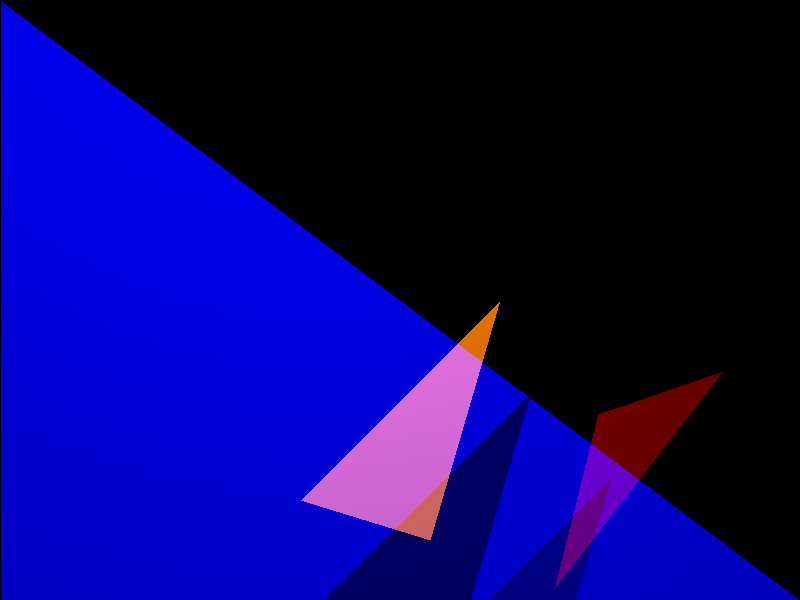
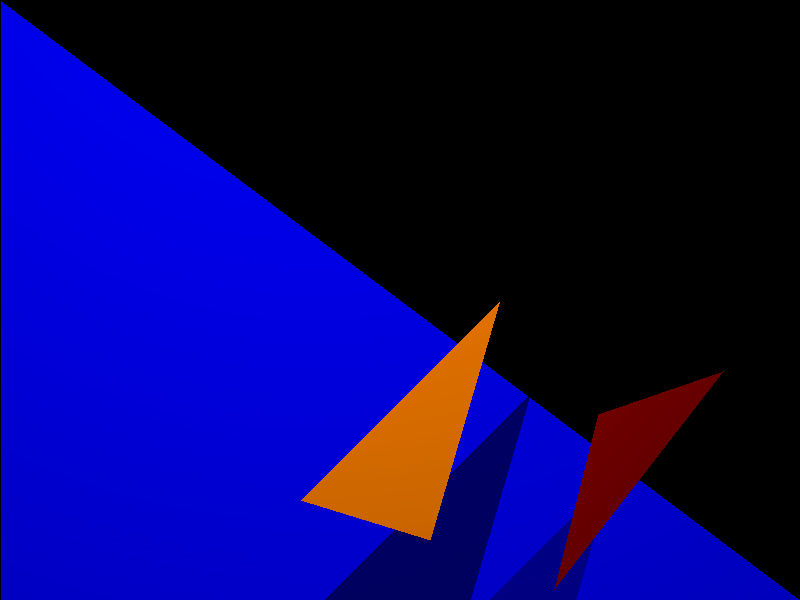
refactoring

Changed region(s): [[0.375, 0.57, 0.625, 0.9], [0.6875, 0.75, 0.8125, 0.99]]

diff --git a/Planes/Program.cs b/Planes/Program.cs
@@ -13,7 +13,7 @@ internal static class Program
     private const int Depth = 600;
     private const string FilePath = ImageHandler.ImageFolderPath + "planes.png";
 
-    private static readonly List<Plane> Planes =
+    private static readonly List<Triangle> Planes =
     [
         new(new Vector3D(0, 600, 600), new Vector3D(800, 600, 600), new Vector3D(0, 0, 600), RgbColor.Blue),
 
@@ -52,11 +52,11 @@ internal static class Program
 
                 foreach (var plane in Planes)
                 {
-                    var currentLambda = plane.NextIntersection(ray);
-                    if (currentLambda < nearestLambda)
+                    var (hasHit, currentLambda) = plane.NextIntersection(ray);
+                    if (hasHit && currentLambda < nearestLambda)
                     {
                         nearestLambda = currentLambda;
-                        color = ColorPlane(ray, plane);
+                        color = ColorPlane(ray, plane, currentLambda);
                     }
                 }
 
@@ -70,21 +70,21 @@ internal static class Program
         image.SaveAsPng(FilePath);
     }
 
-    private static RgbColor ColorPlane(Ray ray, Plane plane)
+    private static RgbColor ColorPlane(Ray ray, Triangle triangle, double lambda)
     {
-        var intersectionPoint = plane.IntersectionPoint(ray);
+        var intersectionPoint = CalcHelper.IntersectionPoint(ray, lambda);
         var vectorToLightSource = (LightSource.Position - intersectionPoint).Normalize();
         var scalarProductOfNormalizedPLaneToLightSource =
-            Math.Max(0, plane.NormalVector.ScalarProduct(vectorToLightSource));
+            Math.Max(0, triangle.NormalVector.ScalarProduct(vectorToLightSource));
 
-        return plane.Color * LightSource.Color *
+        return triangle.Color * LightSource.Color *
                scalarProductOfNormalizedPLaneToLightSource * LightSource.Intensity
                + new RgbColor(0.1, 0.1, 0.1);
     }
 
     private static RgbColor ColorSphere(Ray ray)
     {
-        var intersectionDistance = Sphere.IntersectionDistance(ray.Origin, ray.Direction);
+        var (hasHit, intersectionDistance) = Sphere.NextIntersection(ray);
 
         var hittingPoint = ray.Origin + ray.Direction * intersectionDistance;
         var n = (hittingPoint - Sphere.Center).Normalize();
@@ -92,7 +92,7 @@ internal static class Program
 
         var colorFactor = s.ScalarProduct(n) > 0 ? s.ScalarProduct(n) : 0;
 
-        if (intersectionDistance < double.MaxValue)
+        if (hasHit && intersectionDistance < double.MaxValue)
             return new RgbColor(Sphere.Color.R, Sphere.Color.G, Sphere.Color.B) * colorFactor +
                    new RgbColor(0.1, 0.1, 0.1);
 

diff --git a/Cube/Program.cs b/Cube/Program.cs
@@ -13,7 +13,7 @@ internal static class Program
     private const int Depth = 600;
     private const string FilePath = ImageHandler.ImageFolderPath + "cube.png";
 
-    private static readonly List<Plane> Planes =
+    private static readonly List<Triangle> Planes =
     [
         new(new Vector3D(0, 600, 600), new Vector3D(800, 600, 600), new Vector3D(0, 0, 600), RgbColor.Blue)
     ];
@@ -79,21 +79,21 @@ internal static class Program
         image.SaveAsPng(FilePath);
     }
 
-    private static RgbColor ColorPlane(Ray ray, Plane plane)
+    private static RgbColor ColorPlane(Ray ray, Triangle triangle)
     {
-        var intersectionPoint = plane.IntersectionPoint(ray);
+        var intersectionPoint = triangle.IntersectionPoint(ray);
         var vectorToLightSource = (LightSource.Position - intersectionPoint).Normalize();
         var scalarProductOfNormalizedPLaneToLightSource =
-            Math.Max(0, plane.NormalVector.ScalarProduct(vectorToLightSource));
+            Math.Max(0, triangle.NormalVector.ScalarProduct(vectorToLightSource));
 
-        return plane.Color * LightSource.Color *
+        return triangle.Color * LightSource.Color *
                scalarProductOfNormalizedPLaneToLightSource * LightSource.Intensity
                + new RgbColor(0.1, 0.1, 0.1);
     }
 
     private static RgbColor ColorSphere(Ray ray)
     {
-        var intersectionDistance = Sphere.IntersectionDistance(ray.Origin, ray.Direction);
+        var intersectionDistance = Sphere.NextIntersection(ray.Origin, ray.Direction);
 
         var hittingPoint = ray.Origin + ray.Direction * intersectionDistance;
         var n = (hittingPoint - Sphere.Center).Normalize();

diff --git a/Shadows/Program.cs b/Shadows/Program.cs
@@ -3,7 +3,6 @@ using Commons._3D;
 using Commons.Lighting;
 using SixLabors.ImageSharp;
 using SixLabors.ImageSharp.PixelFormats;
-using Plane = Commons._3D.Plane;
 
 namespace Shadows;
 
@@ -14,7 +13,7 @@ internal static class Program
     private const int Depth = 600;
     private const string FilePath = ImageHandler.ImageFolderPath + "shadows.png";
 
-    private static readonly List<Plane> Planes =
+    private static readonly List<Triangle> Planes =
     [
         new(new Vector3D(0, 600, 600), new Vector3D(800, 600, 600), new Vector3D(0, 0, 600), RgbColor.Blue),
 
@@ -61,6 +60,7 @@ internal static class Program
                     var currentLambda = plane.NextIntersection(rayIntoScreen);
                     if (currentLambda < nearestLambda)
                     {
+                        color = RgbColor.Black;
                         nearestLambda = currentLambda;
                         var intersectionPoint = rayIntoScreen.Origin + rayIntoScreen.Direction * currentLambda;
 
@@ -68,7 +68,6 @@ internal static class Program
                         {
                             var intersectionPointIsInShadow = false;
                             var vectorToLightSource = (lightSource.Position - intersectionPoint).Normalize();
-
                             var rayToLightSource = new Ray(intersectionPoint + vectorToLightSource * MathConstants.Epsilon, vectorToLightSource);
 
                             intersectionPointIsInShadow = CheckRayIntersectionWithOtherObjects(rayToLightSource, intersectionPoint, lightSource);

diff --git a/Commons/3D/Sphere.cs b/Commons/3D/Sphere.cs
@@ -1,15 +1,15 @@
 namespace Commons._3D;
 
-public class Sphere(Vector3D center, int radius, RgbColor color)
+public class Sphere(Vector3D center, int radius, RgbColor color) : IObject3D
 {
     public Vector3D Center => center;
     public int Radius => radius;
     public RgbColor Color => color;
 
-    public double IntersectionDistance(Vector3D position, Vector3D ray)
+    public (bool hasHit, double intersectionDistance) NextIntersection(Ray ray)
     {
-        var u = ray;
-        var v = position - Center;
+        var u = ray.Direction;
+        var v = ray.Origin - Center;
 
         var a = u.ScalarProduct(u);
         var b = 2 * u.ScalarProduct(v);
@@ -18,11 +18,11 @@ public class Sphere(Vector3D center, int radius, RgbColor color)
         // Formula = b^2 - 4ac
         var discriminant = Math.Pow(b, 2) - 4 * a * c;
 
-        if (discriminant < 0) return double.MaxValue;
+        if (discriminant < 0) return (false, double.MaxValue);
 
         var x1 = (-b + Math.Sqrt(discriminant)) / (2 * a);
         var x2 = (-b - Math.Sqrt(discriminant)) / (2 * a);
 
-        return x1 < x2 ? x1 : x2;
+        return (true, x1 < x2 ? x1 : x2);
     }
 }

diff --git a/Commons/3D/Cube.cs b/Commons/3D/Cube.cs
@@ -2,7 +2,7 @@
 
 public class Cube
 {
-    private readonly List<Plane> cubeFaces;
+    private readonly List<Triangle> cubeFaces;
 
     public Cube(Vector3D center, double size, RgbColor color, double rotation = 0)
     {
@@ -26,8 +26,8 @@ public class Cube
         var normalizedVector = new Vector3D(0, 0, 0);
         foreach (var plane in cubeFaces)
         {
-            var lambda = plane.NextIntersection(ray);
-            if (lambda < double.MaxValue && lambda > minLambda)
+            var (hasHitPlane, lambda) = plane.NextIntersection(ray);
+            if (hasHitPlane && lambda > minLambda)
             {
                 hasHit = true;
                 minLambda = lambda;
@@ -38,12 +38,12 @@ public class Cube
         return (hasHit, minLambda, normalizedVector);
     }
 
-    private List<Plane> CreateCube()
+    private List<Triangle> CreateCube()
     {
         var edges = CreateEdges();
         for (var i = 0; i < edges.Count; i++) edges[i] = Rotate(edges[i]);
 
-        var cube = new List<Plane>
+        var cube = new List<Triangle>
         {
             // Front
             new(edges[0], edges[1], edges[2], Color),

diff --git a/Commons/3D/Triangle.cs b/Commons/3D/Triangle.cs
@@ -1,8 +1,8 @@
 namespace Commons._3D;
 
-public class Plane
+public class Triangle : IObject3D
 {
-    public Plane(Vector3D a, Vector3D b, Vector3D c, RgbColor color)
+    public Triangle(Vector3D a, Vector3D b, Vector3D c, RgbColor color)
     {
         A = a;
         B = b;
@@ -23,7 +23,7 @@ public class Plane
     public RgbColor Color { get; }
 
 
-    public double NextIntersection(Ray ray)
+    public (bool hasHit, double intersectionDistance) NextIntersection(Ray ray)
     {
         var lambda = Lambda(ray);
         if (lambda > 0)
@@ -42,16 +42,10 @@ public class Plane
             var v2 = cq.CrossProduct(cb);
             var v3 = aq.CrossProduct(ac);
 
-            if (CheckEqualPrefix(v1.Z, v2.Z, v3.Z)) return lambda;
+            if (CheckEqualPrefix(v1.Z, v2.Z, v3.Z)) return (true, lambda);
         }
 
-        return double.MaxValue;
-    }
-
-    public Vector3D IntersectionPoint(Ray ray)
-    {
-        var lambda = Lambda(ray);
-        return ray.Origin + ray.Direction * lambda;
+        return (false, double.MaxValue);
     }
 
     private double Lambda(Ray ray)

diff --git a/SphereCutter/Program.cs b/SphereCutter/Program.cs
@@ -63,7 +63,7 @@ internal static class Program
                 var ray = new Vector3D(0, 0, 1);
                 foreach (var sphere in Spheres.OrderByDescending(s => s.Center.Z))
                 {
-                    var intersectionDistance = sphere.IntersectionDistance(currentPos, ray);
+                    var intersectionDistance = sphere.NextIntersection(currentPos, ray);
                     if (distanceToScreen > 0 && intersectionDistance < distanceToScreen)
                     {
                         distanceToScreen = intersectionDistance;

diff --git a/Diffusion/Program.cs b/Diffusion/Program.cs
@@ -43,7 +43,7 @@ internal static class Program
                 var ray = new Vector3D(0, 0, 1);
                 foreach (var sphere in Spheres.OrderByDescending(s => s.Center.Z))
                 {
-                    var intersectionDistance = sphere.IntersectionDistance(currentPos, ray);
+                    var intersectionDistance = sphere.NextIntersection(currentPos, ray);
 
                     var hittingPoint = currentPos + ray * intersectionDistance;
                     var n = (hittingPoint - sphere.Center).Normalize();

diff --git a/LotsOfSpheres/Program.cs b/LotsOfSpheres/Program.cs
@@ -51,7 +51,7 @@ internal static class Program
 
                 foreach (var sphere in spheres)
                 {
-                    var intersectionDistance = sphere.IntersectionDistance(currentPos, ray);
+                    var intersectionDistance = sphere.NextIntersection(currentPos, ray);
                     if (distanceToScreen > 0 && intersectionDistance < distanceToScreen)
                     {
                         distanceToScreen = intersectionDistance;

diff --git a/Commons/3D/CalcHelper.cs b/Commons/3D/CalcHelper.cs
@@ -1,0 +1,6 @@
+namespace Commons._3D;
+
+public static class CalcHelper
+{
+    public static Vector3D IntersectionPoint(Ray ray, double distance) => ray.Origin + ray.Direction * distance;
+}

diff --git a/Commons/3D/IObject3D.cs b/Commons/3D/IObject3D.cs
@@ -1,0 +1,6 @@
+namespace Commons._3D;
+
+public interface IObject3D
+{
+    (bool hasHit, double intersectionDistance) NextIntersection(Ray ray);
+}
